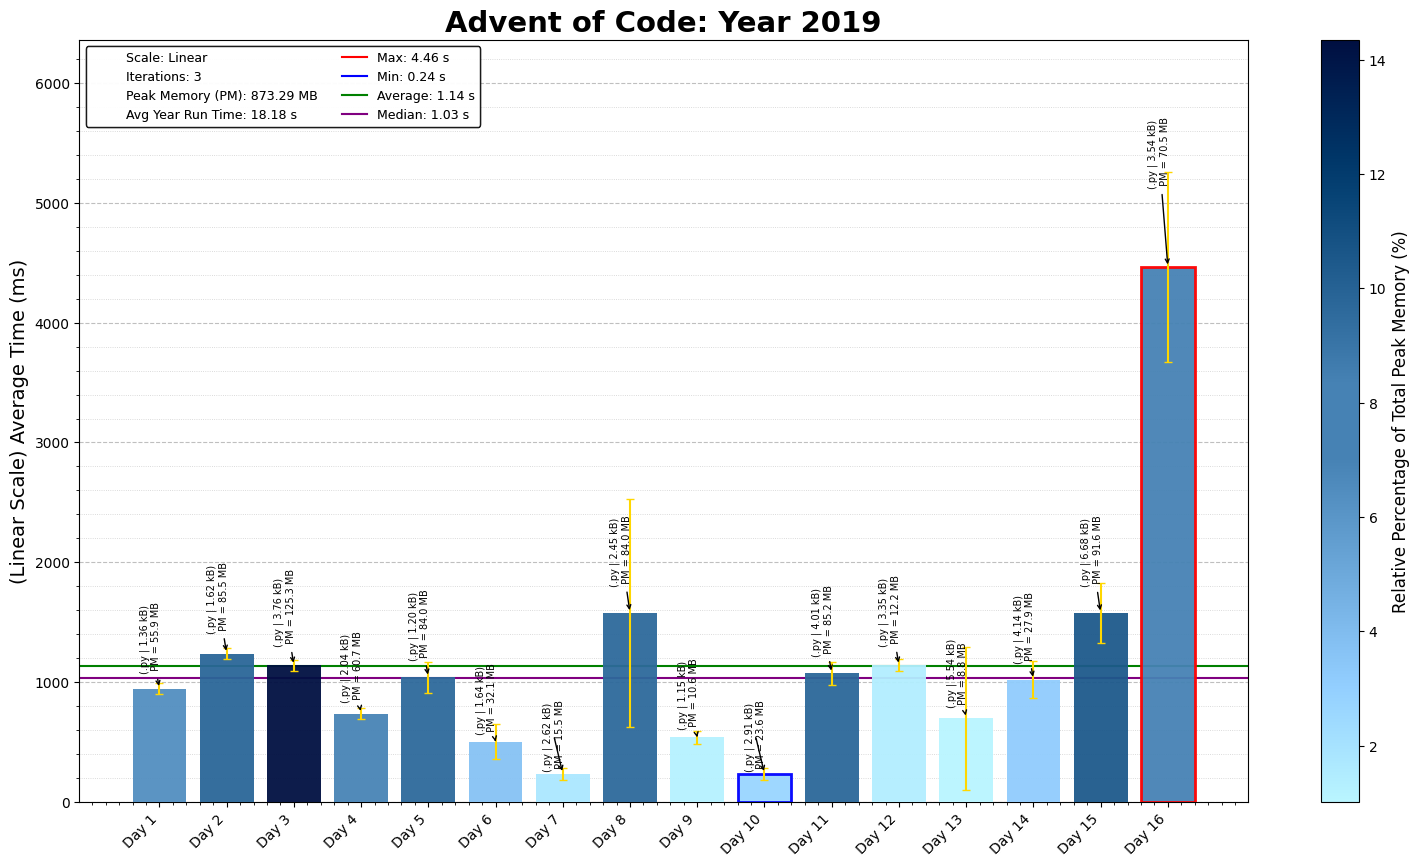
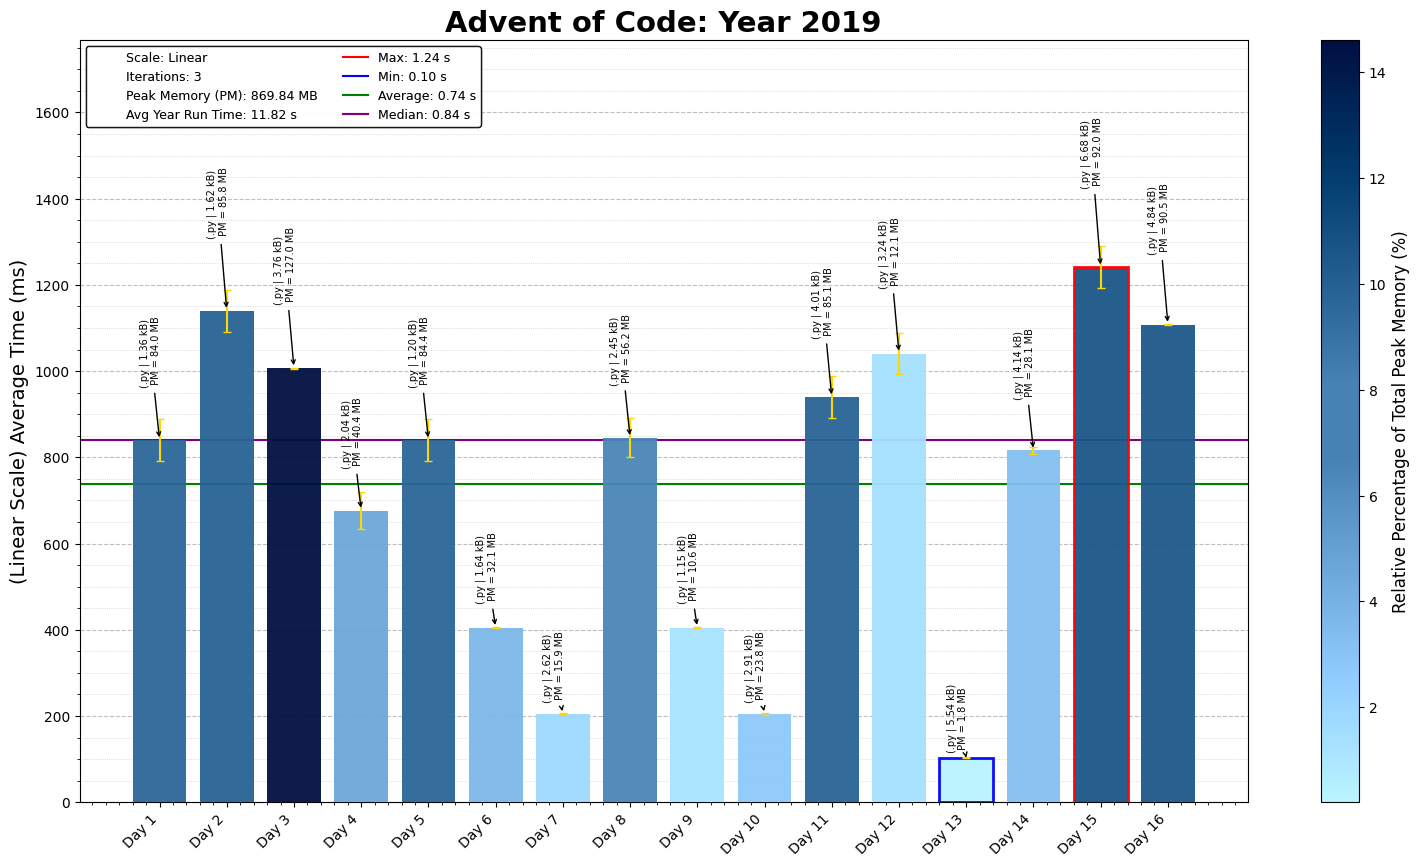
2019 Day 16 (improve speed)

diff --git a/2019/16/2019Day16.py b/2019/16/2019Day16.py
@@ -22,7 +22,7 @@ with open(D16_file_path) as file:
     input_data = file.read().strip().split()
     input_seq  = list(map(int, input_data[0]))
 
-def analyse_signal(init_sequence: list[int], total_phases: int = 100) -> int:
+def analyse_signal_old(init_sequence: list[int], total_phases: int = 100) -> int:
     def __build_pattern_matrix(seq_len: int):
         """Builds a matrix of patterns for all positions."""
         BASE_PATTERN = [0, 1, 0, -1]
@@ -65,6 +65,44 @@ def analyse_signal(init_sequence: list[int], total_phases: int = 100) -> int:
     output_sequence = current_sequence.copy()
     return list(output_sequence.values())
 
+def analyse_signal(init_sequence: list[int], total_phases: int = 100) -> int:
+    """
+    Analyse and transform the given signal sequence over a number of phases.
+    """
+    # Initialize working list and sequence length
+    digits = init_sequence[:]
+    length = len(digits)
+
+    for _ in range(total_phases):
+        # Copy current state of digits for reference
+        old_digits = digits[:]
+
+        # Process the first half of the sequence
+        for i in range(length // 2 + 1):
+            index = i
+            step = i + 1
+            current_sum = 0
+
+            while index < length:
+                # Add contributions from positive part of pattern
+                current_sum += sum(old_digits[index:index + step])
+                index += 2 * step
+
+                # Subtract contributions from negative part of pattern
+                current_sum -= sum(old_digits[index:index + step])
+                index += 2 * step
+
+            # Update the digit value at position i
+            digits[i] = abs(current_sum) % 10
+
+        # Process the second half of the sequence using cumulative sums
+        cumulative_sum = 0
+        for i in range(length - 1, length // 2, -1):
+            cumulative_sum += digits[i]
+            digits[i] = cumulative_sum % 10
+
+    return digits
+
 def analyse_large_signal(init_data: list[int], total_phases: int = 100) -> list[int]:
     # Parse offset from the first 7 digits
     offset = int(''.join(map(str, init_data[:7])))
@@ -89,4 +127,4 @@ print("Part 1:", ''.join(map(str, final_output[:8])))
 message = analyse_large_signal(copy.deepcopy(input_seq))
 print("Part 2:", ''.join(map(str, message[:8])))
 
-print(f"Execution Time = {time.time() - start_time:.5f}s")
+# print(f"Execution Time = {time.time() - start_time:.5f}s")
